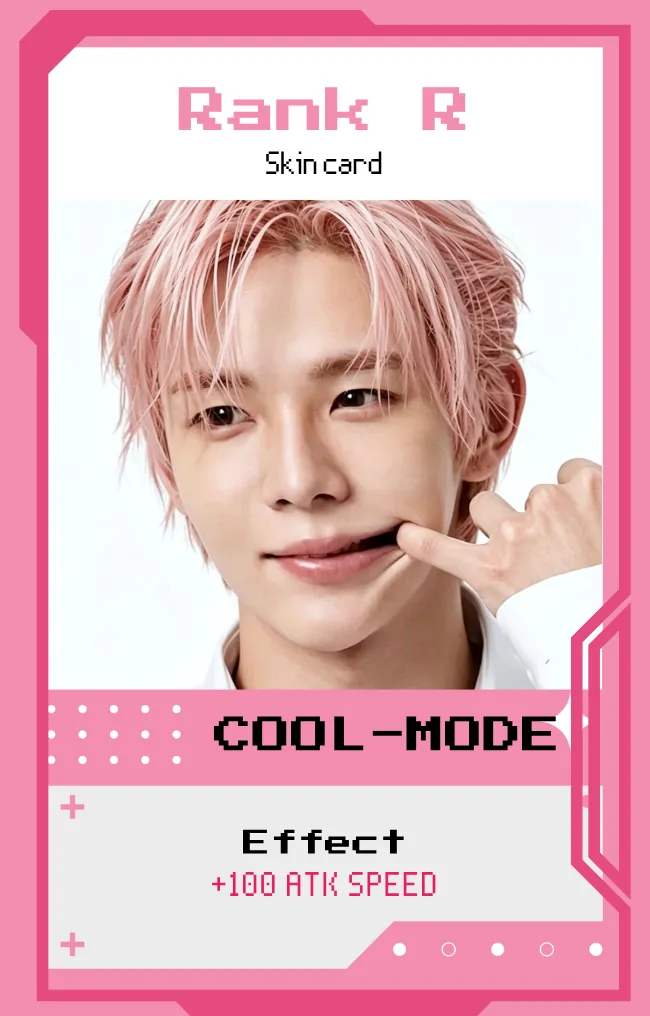
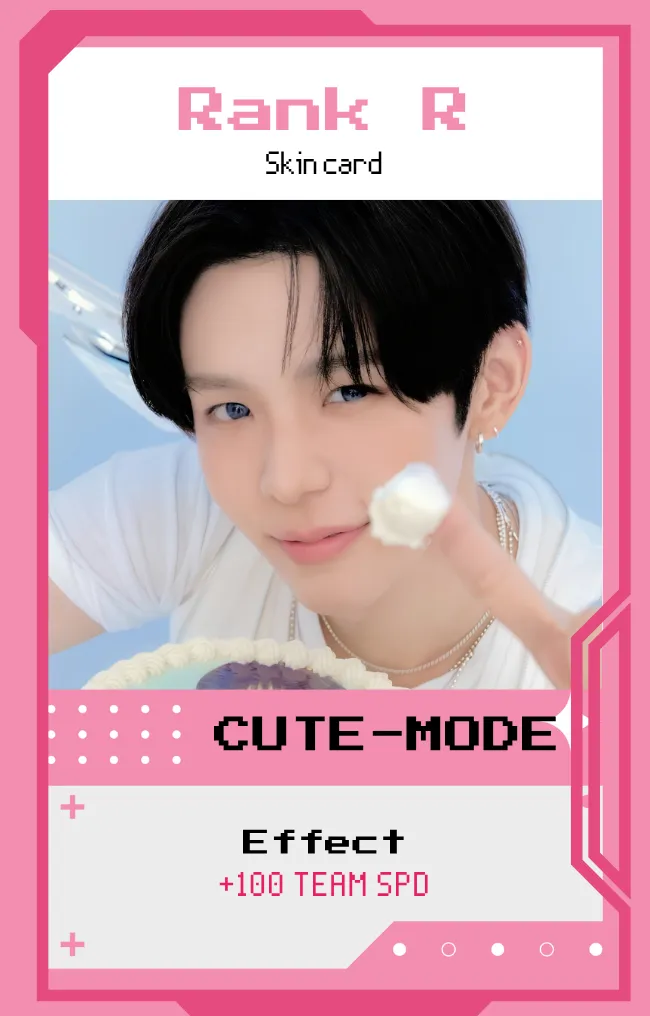
Add files via upload

diff --git a/index.html b/index.html
@@ -1071,6 +1071,10 @@ input[type='file'] {
 
 .game-card {
   position: relative;
+  display: flex;
+  flex-direction: column;
+  height: 100%;
+  min-width: 0;
   overflow: hidden;
   background: #fffdf3 !important;
   border: 3px solid var(--ink) !important;
@@ -1090,6 +1094,8 @@ input[type='file'] {
   justify-content: center;
   overflow: hidden;
   aspect-ratio: 2 / 3;
+  flex: 1 1 auto;
+  min-height: 0;
   background: linear-gradient(135deg, #b9ecff, #fff3b4) !important;
 }
 .game-card .art-stage::before {
@@ -1119,14 +1125,21 @@ input[type='file'] {
   display: flex;
   flex-direction: column;
   align-items: center;
-  justify-content: center;
+  justify-content: flex-start;
   gap: 9px;
-  padding: 12px;
+  padding: 13% 12px 12px;
   color: var(--ink);
   text-align: center;
 }
 .card-fallback .rank-label {
-  padding: 8px 6px;
+  display: flex;
+  align-items: center;
+  justify-content: center;
+  box-sizing: border-box;
+  width: 116px;
+  min-height: 42px;
+  flex: 0 0 42px;
+  padding: 6px;
   background: #fff;
   border: 2px solid var(--ink);
   border-radius: 5px;
@@ -1134,15 +1147,33 @@ input[type='file'] {
   font: 10px 'Press Start 2P', monospace;
 }
 .card-fallback .character-mark {
+  display: flex;
+  align-items: center;
+  justify-content: center;
+  width: 100%;
+  height: clamp(54px, 7vw, 76px);
+  flex: 0 0 clamp(54px, 7vw, 76px);
   font-size: clamp(38px, 6vw, 64px);
+  line-height: 1;
   filter: drop-shadow(2px 3px #ffffffb0);
 }
 .card-fallback .placeholder-name {
+  display: flex;
+  align-items: center;
+  justify-content: center;
+  width: 100%;
+  min-height: 28px;
+  flex: 0 0 28px;
   font: clamp(9px, 1.2vw, 13px) 'Press Start 2P', monospace;
-  line-height: 1.8;
+  line-height: 1.5;
   overflow-wrap: anywhere;
 }
 .card-fallback .skin-label {
+  display: flex;
+  align-items: center;
+  justify-content: center;
+  min-height: 34px;
+  box-sizing: border-box;
   padding: 5px 8px;
   background: #fff;
   border-radius: 4px;
@@ -1153,15 +1184,18 @@ input[type='file'] {
 .game-card .card-meta {
   display: flex;
   align-items: center;
-  justify-content: space-between;
+  justify-content: center;
   gap: 6px;
-  padding: 9px 10px 5px;
+  min-height: 38px;
+  box-sizing: border-box;
+  padding: 7px 10px;
+  text-align: center;
   background: #fffdf3 !important;
   color: var(--ink) !important;
   font-size: 12px;
   font-weight: 700;
 }
-.game-card .rarity { color: var(--pink) !important; font-size: 9px !important; }
+.game-card .rarity { color: var(--pink) !important; font-size: 9px !important; text-align: center; width: 100%; }
 .effect-strip {
   display:none!important;
   padding: 9px;
